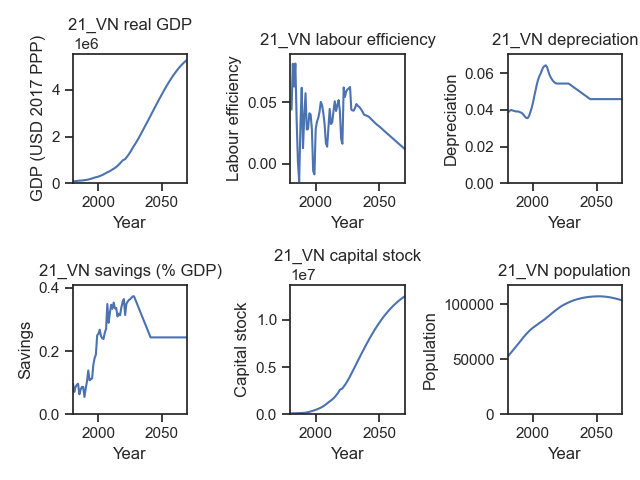
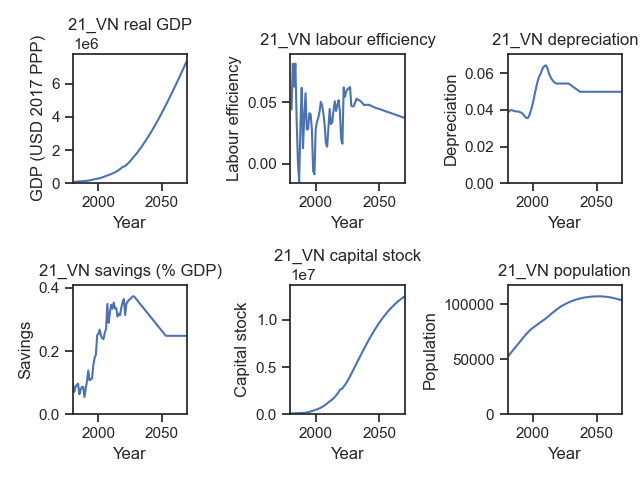
script_cleanup_20Sep2023

diff --git a/workflow/scripts/Macro/b2_generate_GDP_results.py b/workflow/scripts/Macro/b2_generate_GDP_results.py
@@ -10,13 +10,22 @@ import re
 import openpyxl
 import datetime
 
-# FOR NOW: Run 2a GDP_model_APERC prior to executing this script
-# Import function from prior script
-# from GDP_model_APERC import aperc_gdp_model
-
 # Change the working drive
 wanted_wd = 'macro_variables_9th'
 os.chdir(re.split(wanted_wd, os.getcwd())[0] + wanted_wd)
+
+# Import function from prior script
+from b1_GDP_model_APERC import aperc_gdp_model
+
+# Read in required data frames (csvs saved in b1_GDP_model_APERC.py)
+GDP_df1 = pd.read_csv('./data/gdp_df1.csv').set_index('year')
+GDP_8th = pd.read_csv('./data/GDP_8th.csv')
+lab_eff = pd.read_csv('./data/labour_efficiency_estimate_to2027.csv')
+cap_growth_df = pd.read_csv('./data/cap_growth_df.csv')
+delta_df = pd.read_csv('./data/PWT_delta_2019.csv')
+savings_df = pd.read_csv('./data/IMF_savings_2027.csv')
+save_invest_hist = pd.read_csv('./data/IMF/IMF_to2027.csv')
+delta_hist = pd.read_csv('./data/PWT/PWT_cap_labour_to2019.csv')
 
 # APEC economy codes
 APEC_econcode = pd.read_csv('./data/APEC_economy_code.csv', header = None, index_col = 0)\
@@ -87,7 +96,7 @@ aperc_gdp_model(economy = '19_THA', low_eff = 0.016, high_eff = 0.02, high_sav =
 aperc_gdp_model(economy = '20_USA')
 
 # 21_VN
-aperc_gdp_model(economy = '21_VN', change_sav = 0.01, low_eff = 0.01, change_eff = 0.005)
+aperc_gdp_model(economy = '21_VN', change_sav = 0.005, low_eff = 0.015, change_eff = 0.002, high_delta = 0.05)
 
 # Run all economies with defaults aperc_gdp_model settings 
 # for economy in APEC_econcode.values():
@@ -164,7 +173,7 @@ GDP_pc['units'] = 'USD PPP 2017'
 APEC_gdp_data = pd.concat([real_GDP, population, lab_eff, depreciation, savings, k_stock, GDP_pc]).copy()
 APEC_gdp_data = APEC_gdp_data.sort_values(['economy_code', 'variable', 'year']).copy().reset_index(drop = True)
 
-APEC_gdp_data.to_csv(GDP_data + 'APEC_GDP_data_' + timestamp + '.csv', index = False)
+APEC_gdp_data.to_csv(GDP_data + '00_APEC_GDP_data_' + timestamp + '.csv', index = False)
 
 # Save space for GDP per capita charts
 GDP_pc = './results/GDP_estimates/per_capita/'

diff --git a/workflow/scripts/Macro/b1_GDP_model_APERC.py b/workflow/scripts/Macro/b1_GDP_model_APERC.py
@@ -52,6 +52,7 @@ GDP_8th = GDP_8th.melt(id_vars = ['Economy', 'Unit'])\
 GDP_8th['value'] = GDP_8th['value'] / (10**6)
 # Provide source data
 GDP_8th['source'] = '8th Outlook'
+GDP_8th.to_csv('./data/GDP_8th.csv', index = False)
 
 GDP_df1 = pd.DataFrame()
 
@@ -91,11 +92,11 @@ for economy in APEC_econcode.values():
     GDP_df1 = pd.concat([GDP_df1, interim_df3]).reset_index(drop = True)
 
 GDP_df1 = GDP_df1.set_index('year', drop = True)
+GDP_df1.to_csv('./data/gdp_df1.csv', index = True)
 
 # Capital growth grab
 cap_growth_df = cap_df[['economy_code', 'variable', 'year', 'percent']].copy().reset_index(drop = True)
-cap_growth_df
-
+cap_growth_df.to_csv('./data/cap_growth_df.csv', index = False)
 
 ##########################################################################################
 # READ IN additional data (GDP_df1 and lab_eff obtained from above)
@@ -412,5 +413,3 @@ def aperc_gdp_model(economy = '01_AUS',
         fig.savefig(lab_eff_charts + economy + '_labour_efficiency_to2100.png')
         plt.show()
         plt.close()
-
-aperc_gdp_model()
